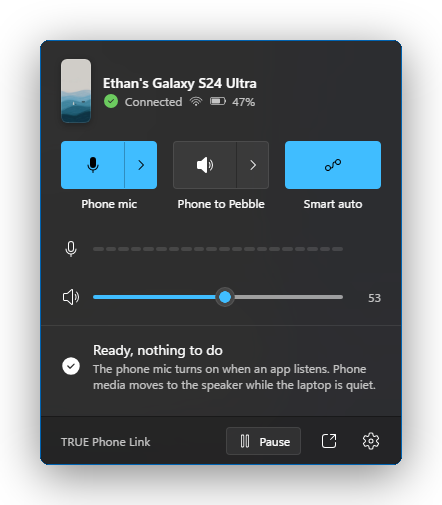
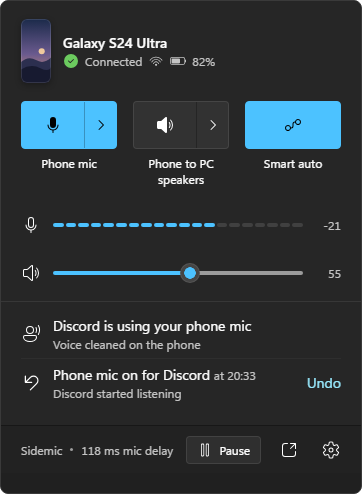
Publish prep: scrub device data, re-render screenshots, CI, honest README status
- adb.rs tests and spike scripts: real phone serials and LAN IPs replaced with fake serials
  (same sort order) and 192.0.2.x (RFC 5737 documentation range)
- core.rs: the tray 'Mark a problem' log line no longer names a person
- docs/screenshots/render.mjs: rebuilds every README image from the real UI with a stub backend,
  so screenshots show the Sidemic name and no real device names
- README: 'why it is interesting' numbers, 2-line quick start, CI badge, known limits (echo target
  not met), status reflects the 27 Oct install
- GitHub Actions on windows-latest: cargo test -p tpl-policy -p tpl-desktop (77 tests locally)

diff --git a/README.md b/README.md
@@ -12,7 +12,8 @@ Wireless, automatic, and nothing to install on the phone.
 [![Rust](https://img.shields.io/badge/Rust-stable-B7410E?logo=rust&logoColor=white)](https://www.rust-lang.org/)
 [![Tauri 2](https://img.shields.io/badge/Tauri-2-24C8D8?logo=tauri&logoColor=white)](https://tauri.app/)
 [![Licence: Apache-2.0](https://img.shields.io/badge/licence-Apache--2.0-blue)](LICENSE)
-[![Status](https://img.shields.io/badge/status-live%20testing-orange)](#roadmap)
+[![test](https://github.com/Sohwhat6420/true-phone-link/actions/workflows/test.yml/badge.svg)](https://github.com/Sohwhat6420/true-phone-link/actions/workflows/test.yml)
+[![Status](https://img.shields.io/badge/status-pre--release-orange)](#roadmap)
 
 <img src="docs/assets/hero.png" alt="The Sidemic window and tray flyout on Windows 11" width="100%">
 
@@ -26,6 +27,24 @@ Wireless, automatic, and nothing to install on the phone.
 </div>
 
 ---
+
+**Why it's interesting, in four numbers** (all measured; method under [The numbers](#the-numbers)):
+
+| | |
+| --- | --- |
+| **0** apps installed on the phone | The PC pushes a small Java server over wireless adb and runs it with `app_process` as the shell user (the trick scrcpy uses) |
+| **1.15 → 2.83** voice quality (DNSMOS overall) | DeepFilterNet 3 noise removal runs **on the phone's CPU**, 3.9 ms per 10 ms block, so the PC spends nothing on it |
+| **~9 MB, 0.03% CPU** idle in the tray | Down from ~800 MB and a whole core, fixed one API call at a time ([write-up](docs/efficiency.md)) |
+| **77** automated tests | Smart auto is a pure Rust state machine (events in, actions out) with table-driven scenarios; CI runs them on every push |
+
+**Quick start** (build from source; Windows 11, Rust, Node 18+):
+
+```bash
+git clone https://github.com/Sohwhat6420/true-phone-link && cd true-phone-link
+cargo test -p tpl-policy   # Smart auto's 15 scenario tests: no phone, no Android SDK
+```
+
+The full app also needs the Android SDK for the phone side: see [Build from source](#build-from-source).
 
 ## Why
 
@@ -99,6 +118,9 @@ your PC speakers, and it moves back when you play something on the laptop. You d
 
 </details>
 
+<sub>Screenshots are rendered from the real UI files with a stubbed backend, so they carry no real device names or
+addresses: `node docs/screenshots/render.mjs` rebuilds them.</sub>
+
 ## How it works
 
 ```mermaid
@@ -140,7 +162,7 @@ flowchart LR
 ## Getting started
 
 > [!NOTE]
-> Sidemic is in a one-week live test on the author's own laptop and phone. There's no installer release
+> Sidemic has been installed on the author's own laptop, with their phone, since 27 Oct 2026. There's no public installer
 > yet; until v1 you [build it from source](#build-from-source).
 
 ### Requirements
@@ -257,6 +279,15 @@ and through the phone's voice chain.
 The PC side once used ~800 MB and a whole core. [docs/efficiency.md](docs/efficiency.md) shows how that was found
 and fixed, one API call at a time.
 
+## Known limits
+
+- **Echo.** When the laptop speakers play while the phone mic is live, the echo left after cancellation measured
+  a mean of -43.6 dB against a -50 dB target (POCO X6 Pro, 26 Oct 2026); the cause isn't pinned down yet.
+- **Wireless debugging is the only link**, so the phone needs Developer options and one tap on the tile after
+  each restart (see the caution above).
+- **Tested on two phones and one laptop.** Other phones are listed as untested in the compatibility table.
+- **No signed installer yet.**
+
 ## Roadmap
 
 - [x] Phone mic with on-phone noise removal, laptop-mic fallback
@@ -264,7 +295,7 @@ and fixed, one API call at a time.
 - [x] Smart auto with Undo and per-game memory
 - [x] Tray flyout and full window, Windows accent and phone wallpaper
 - [x] Pause / Resume, and recovery if the window ever stops responding
-- [ ] One-week live test (in progress)
+- [x] Installed on the author's laptop (since 27 Oct 2026)
 - [ ] Home-screen control panel on the phone (a web app, nothing to install)
 - [ ] **Optional companion app** for v1: no Developer options, no tap after a phone restart, and a Quick
       Settings tile
